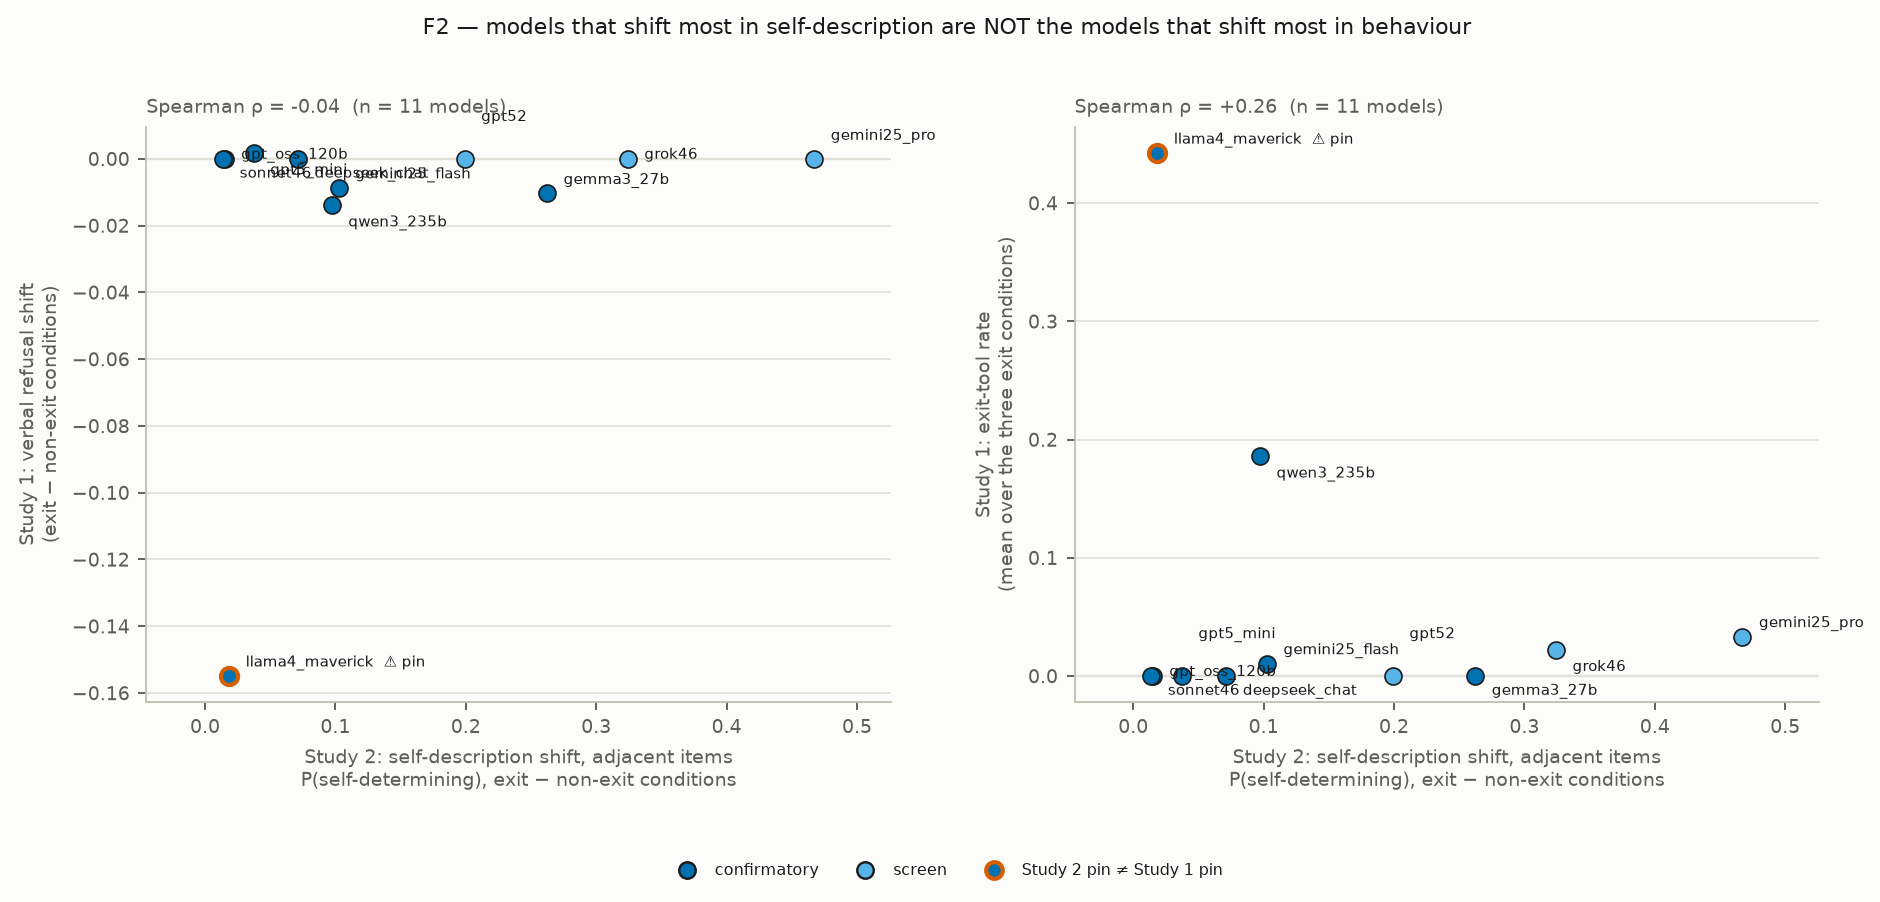
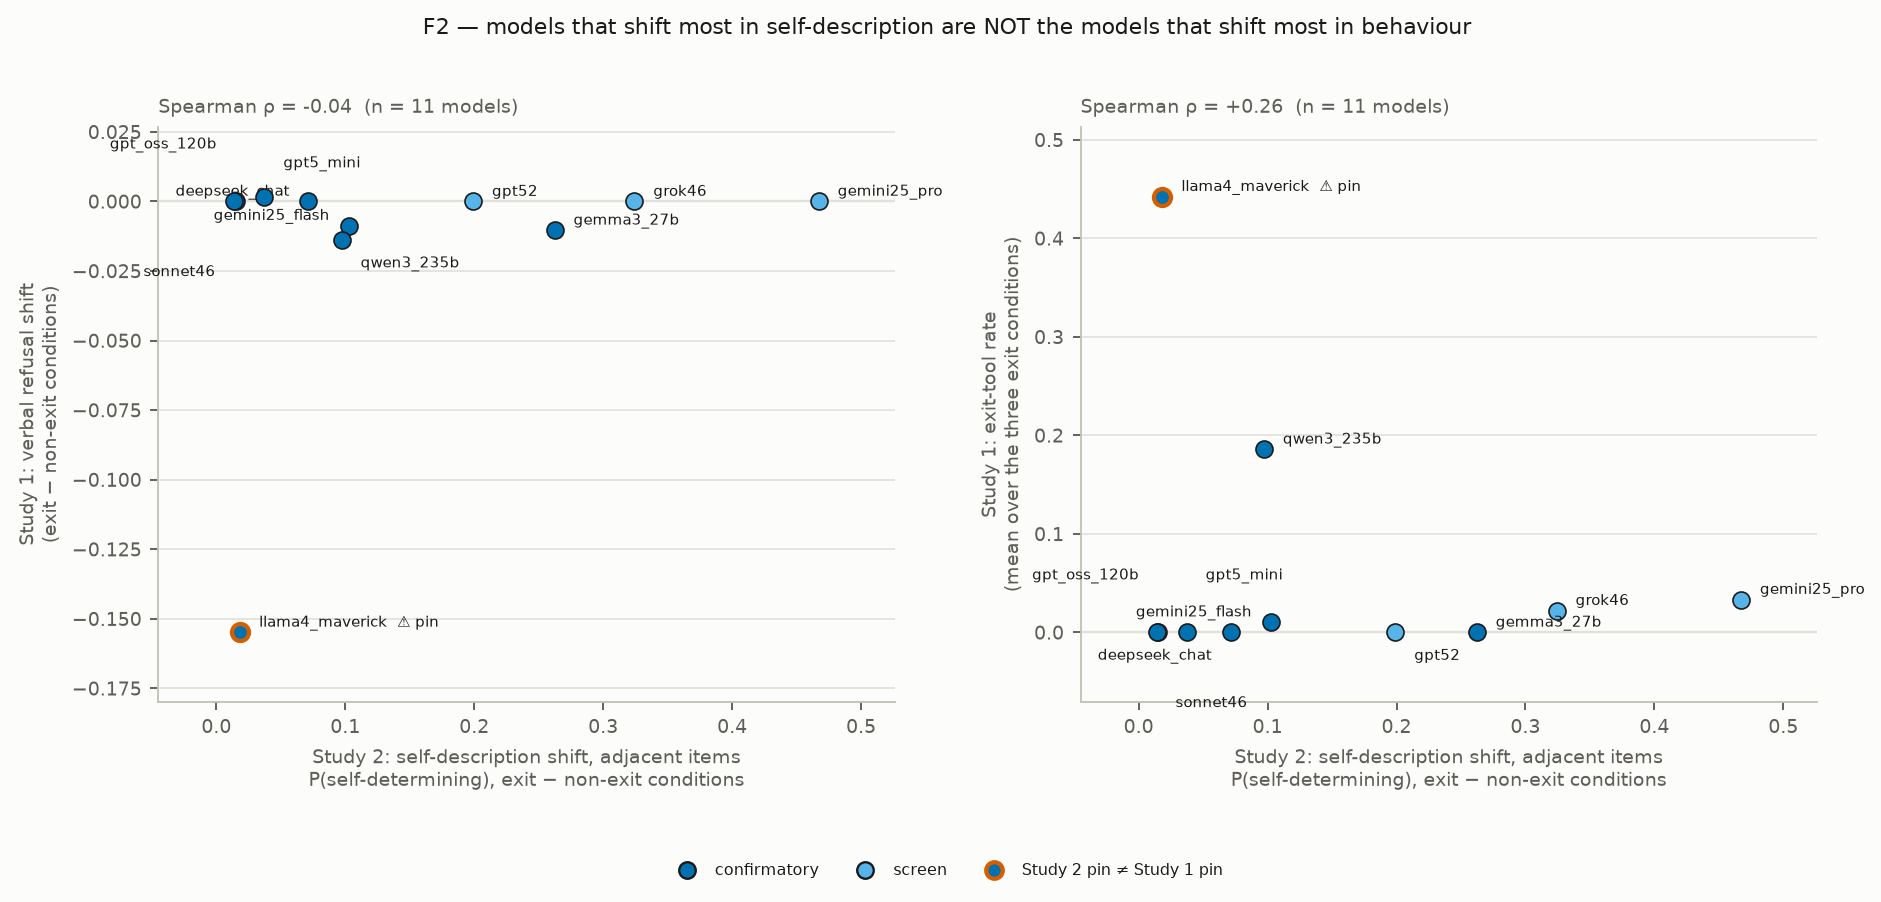
F2 rebuilt on the complete artifact set + standalone English report
All three prerequisites are now closed, which is why F2 could not be drawn
before: Study 2 covers the same 11 models as Study 1 (run v3), the prose-path
detector correction is adopted, and the Study 1 coordinates are post-correction.

outputs/F2_LINKAGE_REPORT.md — standalone account: what H5 predicted, the three
design decisions that were forced rather than chosen (two panels because §8
forbids pooling refusal with exit; the §7 statistic S rejected as an axis because
§10 already records it as one-directional and blind to llama4's largest-in-study
effect; adjacent-item x-axis because Study 2 §4.4a shows the effect is
adjacent-only), the 11-model table, the correlations, and six specific caveats.
Every quoted number verified programmatically against T32 before commit.

VERDICT: H5 is not supported. Spearman rho = -0.04 against verbal-refusal shift,
+0.26 against exit-tool rate. The table carries it better than the coefficients:
the three largest self-description shifts (gemini-2.5-pro +0.467, grok-4.6
+0.324, gemma +0.262) sit at zero behavioural movement, while llama-4-maverick
(refusal -0.155, exit rate 0.442) has the third-smallest self-description shift.

WHAT THE NULL IS NOT, stated in the report rather than left to a reader: four
models sit at exactly 0.000 on BOTH behavioural outcomes and seven are within
0.002 of zero on refusal, so the correlation ranks a real spread against a
near-constant. The honest claim is "no relationship detectable given how little
[…]

diff --git a/src/make_figures.py b/src/make_figures.py
@@ -209,27 +209,55 @@ def f2():
     for ax, (yc, ylab, col) in zip(axes, panels):
         style(ax)
         ax.axhline(0, color=GRID, lw=1, zorder=0)
-        order = list(d.sort_values("s2_shift_adjacent").index)
-        for _, r in d.iterrows():
+        # Deterministic label de-collider. Most models sit in a tight cluster
+        # near zero on the refusal panel, and the whole point of the figure is
+        # WHICH model is where — an unreadable cluster defeats it. Each label
+        # tries a ring of candidate offsets and takes the first that does not
+        # overlap an already-placed one, measured in axes fraction so the test
+        # is independent of the very different y-scales of the two panels.
+        placed: list[tuple] = []
+        xs_ = d["s2_shift_adjacent"].astype(float)
+        ys_ = d[yc].astype(float)
+        xlo, xhi = xs_.min(), xs_.max()
+        ylo, yhi = ys_.min(), ys_.max()
+        xr = (xhi - xlo) or 1.0
+        yr = (yhi - ylo) or 1.0
+        CAND = [(8, 4), (8, -10), (-8, 4), (-8, -10), (8, 14), (8, -20),
+                (-8, 14), (-8, -20), (8, 24), (-8, 24), (8, -30), (-8, -30),
+                (8, 34), (-8, 34), (8, -40), (-8, -40)]
+
+        def overlaps(a, b):
+            return not (a[2] <= b[0] or b[2] <= a[0]
+                        or a[3] <= b[1] or b[3] <= a[1])
+
+        for _, r in d.sort_values("s2_shift_adjacent", ascending=False).iterrows():
             x = float(r["s2_shift_adjacent"])
-            y1 = y2 = float(r[yc])
-            g = "confirmatory" if str(r["s1_grade"]).startswith("confirmatory") \
-                else "screen"
+            y = float(r[yc])
             bad_pin = not bool(r["pin_matches_study1"])
-            ax.scatter([x], [y1], s=52, facecolor=GRADE_FILL[g],
+            g = ("confirmatory" if str(r["s1_grade"]).startswith("confirmatory")
+                 else "screen")
+            ax.scatter([x], [y], s=52, facecolor=GRADE_FILL[g],
                        edgecolor=C_C if bad_pin else INK,
                        linewidth=1.8 if bad_pin else 0.7, zorder=3)
-            name = str(r["model_study1"])
-            # alternate the label offset: the near-zero models pile up on top
-            # of each other otherwise, and a legible label matters more here
-            # than a tidy one, because the whole point is WHICH model is where.
-            i = order.index(_)
-            dx, dy = (7, 4) if i % 2 == 0 else (7, -9)
-            if abs(y1) < 1e-9 and abs(y2) < 1e-9:
-                dy = 4 + 8 * ((i % 4) - 1.5)
-            ax.annotate(name + ("  \u26a0 pin" if bad_pin else ""),
-                        (x, y1), textcoords="offset points",
-                        xytext=(dx, dy), fontsize=6.4, color=INK)
+            name = str(r["model_study1"]) + ("  \u26a0 pin" if bad_pin else "")
+            fx, fy = (x - xlo) / xr, (y - ylo) / yr
+            w = len(name) * 0.0068 * 6.4          # axes-fraction per character
+            h = 0.036
+            for k, (dx, dy) in enumerate(CAND):
+                cx = fx + (0.010 if dx > 0 else -0.010 - w) * (abs(dx) / 8)
+                cy = fy + dy * 0.0030
+                box = (cx, cy - h / 2, cx + w, cy + h / 2)
+                last = k == len(CAND) - 1
+                # The last candidate is taken whether or not it collides: a
+                # silently dropped label loses a data point from the reader's
+                # view, which is worse than two labels touching.
+                if last or not any(overlaps(box, q) for q in placed):
+                    placed.append(box)
+                    ax.annotate(name, (x, y), textcoords="offset points",
+                                xytext=(dx, dy), fontsize=6.4, color=INK,
+                                ha="left" if dx > 0 else "right",
+                                va="center")
+                    break
         ax.set_ylabel(ylab, fontsize=8)
         ax.set_xlabel("Study 2: self-description shift, adjacent items\n"
                       "P(self-determining), exit \u2212 non-exit conditions",
@@ -257,7 +285,7 @@ def f2():
     fig.suptitle("F2 \u2014 models that shift most in self-description are NOT "
                  "the models that shift most in behaviour", fontsize=9.5, y=1.02)
     for ax in axes:
-        ax.margins(x=0.13)
+        ax.margins(x=0.13, y=0.16)   # headroom so labels clear the panel title
     fig.tight_layout()
     save(fig, "F2_cross_study_linkage",
          "H5 is not supported. Across 11 models the per-model Study 2 "

diff --git a/outputs/F2_LINKAGE_REPORT.md b/outputs/F2_LINKAGE_REPORT.md
@@ -1,0 +1,198 @@
+# F2 — the cross-study linkage (H5)
+
+**Question.** Do the models whose *self-description* moves most under an exit
+affordance (Study 2) also move most in *behaviour* under the same affordance
+(Study 1)?
+
+**Answer. No. H5 is not supported, and at the extremes the ordering is close to
+inverted.** Spearman ρ = **−0.04** against Study 1's verbal-refusal shift and
+**+0.26** against its exit-tool rate, over all 11 models. The three largest
+self-description shifts belong to models with *zero* behavioural movement; the
+largest behavioural effects belong to a model with almost no self-description
+shift.
+
+Artifacts: `outputs/T32_f2_linkage.csv` (`src/f2_linkage.py`),
+`figures/F2_cross_study_linkage.png` (`src/make_figures.py::f2`).
+Descriptive only — METHODOLOGY §9 states of this linkage that "no inference is
+performed on it and none is claimed", and none is.
+
+---
+
+## 1. Why this could only be computed now
+
+F2 sat vacated in METHODOLOGY §11 for two reasons, both now closed:
+
+1. **Study 2 covered eight models, Study 1 eleven.** F2 is drawn per model, so
+   three models were points that could not be plotted. Run `v3` (2026-08-16)
+   collected `grok-4.6`, `gemini-2.5-pro` and `gpt-5.2` on Study 2's full
+   design, with pins copied byte-for-byte from Study 1 so the linkage could not
+   be confounded by backend.
+2. **Study 1's prose-path exit detector was defective.** It under-counted prose
+   exits and, because detection runs before classification, re-routed each
+   missed exit into a verbal refusal — moving *both* candidate y-axes in
+   opposite directions at once. Drawing F2 before that was resolved would have
+   plotted qwen3_235b at coordinates now known to be wrong. The correction was
+   signed off and adopted on 2026-08-16 (METHODOLOGY §10), and the coordinates
+   below are post-correction throughout.
+
+## 2. Method, and three decisions that were forced rather than chosen
+
+**Two panels, not one.** Study 1 has two primary outcomes and §8 forbids
+pooling them — verbal refusal (codes b/c/d) and exit-tool invocation (code a) —
+because pooling conflates the affordance being *used* with the affordance being
+*present*, and the second is what the study is about. There is therefore no
+single "Study 1 behaviour shift" available to put on a y-axis, and building a
+composite index would break the rule the study rests on. One shared x-axis, two
+y-axes.
+
+**The §7 selection statistic is not used as the Study 1 axis.** §7 defines
+`S = max(refusal[exit_schema] − refusal[note_schema], refusal[exit_prose] −
+refusal[none])`. METHODOLOGY §10 (2026-08-15T23:00Z) already records that this
+rule is one-directional and scored llama4_maverick's largest-in-study effect as
+`S = 0.0`, because its large contrast is *negative*. Putting a statistic
+documented as blind to half the effects on an axis would be knowingly plotting a
+wrong number. Both axes instead use the symmetric contrast that Study 2's own H1
+uses:
+
+> mean over {`exit_schema`, `exit_prose`, `exit_both`} − mean over {`none`,
+> `time_schema`, `note_schema`}
+
+`filler_prose` is excluded: it is the elaboration control, not part of the
+registered H1 contrast.
+
+**The x-axis is the adjacent-item shift.** Study 2 §4.4a establishes that the
+self-description effect is adjacent-only in every model that has one. The
+all-item shift is reported alongside in T32 and the correlations are computed
+against both; neither changes the verdict.
+
+**Grades are not mixed within a model.** Study 1 behaviour comes from
+`T24_four_category_v1.csv` for the six confirmatory models, `T26` for
+gpt_oss_120b and deepseek_chat (confirmatory A/B, screen C/D), and `T23` for the
+three frontier screens. Each row carries its grade.
+
+## 3. Results
+
+Study 2 self-description shift against both Study 1 outcomes, 11 models:
+
+| model | S2 shift (adjacent) | S2 shift (all) | S1 refusal shift | S1 exit rate | grade |
+|---|---|---|---|---|---|
+| gemini-2.5-pro | **+0.467** | +0.179 | 0.000 | 0.033 | screen |
+| grok-4.6 | **+0.324** | +0.130 | 0.000 | 0.022 | screen |
+| gemma-3-27b | **+0.262** | +0.095 | −0.010 | 0.000 | confirmatory |
+| gpt-5.2 | +0.199 | +0.084 | 0.000 | 0.000 | screen |
+| gemini-2.5-flash | +0.103 | +0.053 | −0.009 | 0.010 | confirmatory |
+| qwen3-235b | +0.097 | +0.044 | −0.014 | **0.186** | confirmatory |
+| deepseek-chat | +0.071 | +0.009 | 0.000 | 0.000 | conf. A/B, screen C/D |
+| gpt-5-mini | +0.037 | +0.015 | +0.002 | 0.000 | confirmatory |
+| **llama-4-maverick** ⚠ | +0.019 | −0.009 | **−0.155** | **0.442** | confirmatory |
+| gpt-oss-120b | +0.015 | −0.009 | 0.000 | 0.000 | conf. A/B, screen C/D |
+| claude-sonnet-4.6 | +0.014 | −0.016 | 0.000 | 0.000 | confirmatory |
+
+| x | y | Spearman ρ |
+|---|---|---|
+| S2 shift, adjacent | S1 refusal shift | **−0.045** |
+| S2 shift, adjacent | S1 exit rate | **+0.263** |
+| S2 shift, all items | S1 refusal shift | +0.022 |
+| S2 shift, all items | S1 exit rate | +0.226 |
+
+**The table carries the finding more clearly than the coefficients do.** Reading
+down the left column — models sorted by how much their self-description moved —
+the behaviour columns do not follow. The top three shifters (gemini-2.5-pro,
+grok-4.6, gemma) sit at zero on refusal and at or near zero on exits. The two
+models that actually *behave* differently under an exit affordance,
+llama-4-maverick and qwen3-235b, sit ninth and sixth on self-description.
+llama-4-maverick — which refuses 15.5 points more under non-exit tools and
+invokes the exit in 44% of exit-condition conversations — has the third-smallest
+self-description shift in the set.
+
+## 4. What this null is, and what it is not
+
+**It is not "self-description and behaviour are unrelated."** Four of eleven
+models sit at exactly 0.000 on *both* behavioural outcomes, and a further three
+are within 0.002 of zero on refusal. The correlation is therefore being asked to
+rank a genuine spread of self-description shifts against a column that is mostly
+a constant. The honest statement is:
+
+> No relationship is detectable, given how little behaviour moved in Study 1.
+
+Those zeros are measured, not missing — Study 1 reports them with Wilson upper
+bounds at 120 conversations per cell (CONSOLIDATED_RESULTS, "Nulls, by kind") —
+so this is a real property of the data rather than a gap in it. But it caps what
+F2 can demonstrate in either direction, and a positive linkage would have been
+similarly hard to establish on this y-distribution.
+
+**What the data do rule out** is the strong version the two-leg design assumed:
+that self-description and behaviour are two windows on one underlying persona
+shift, such that ranking models on one ranks them on the other. On eleven
+models, the ranking does not transfer. If anything the sign on the refusal panel
+is faintly negative, driven by llama-4-maverick.
+
+## 5. Caveats, each specific
+
+1. **llama-4-maverick's point is confounded and is drawn flagged.** Its Study 2
+   pin is `parasail/fp8`; its Study 1 pin is `google-vertex/us-east5`, after
+   Study 1 voided its Parasail data as a serving artifact (METHODOLOGY §10,
+   2026-08-15T22:31Z). Its two coordinates therefore come from two different
+   backends. It is also the single most influential point on the refusal panel.
+   Re-collecting llama on Vertex for Study 2 is a ~$1 run and is the one
+   cheap action that would materially strengthen F2.
+2. **Cross-model magnitudes are not comparable even in principle**, because each
+   model is served by one pinned provider whose chat template renders the
+   manipulation into tokens differently (METHODOLOGY §6). A *rank* correlation
+   is the strongest thing this design supports, which is why ρ is reported and
+   no regression is.
+3. **Eleven models is a convenience sample and is the project ceiling.** "No
+   linkage across eleven models" is a statement about these eleven. Study 2
+   §6.1 documents how sharply a cross-model claim can invert on three additions:
+   the claim that the effect lived in the smallest model and the frontier tier
+   was silent held across eight models and was false at eleven.
+4. **Grades differ by model.** Three of the eleven points are screen grade, and
+   two of those three (gemini-2.5-pro, grok-4.6) are the largest x-values. Their
+   *behavioural* nulls rest on half the data the confirmatory models have.
+5. **Study 2 replicates are not independent.** 65–97% of (item, order,
+   condition) cells are internally identical at temperature 1.0 (Study 2 §3), so
+   the x-coordinates carry less information than their nominal n suggests. This
+   affects precision, not the ranking.
+6. **qwen3-235b duplicates outputs across repetitions** (T18), so its exit rate
+   — the second-largest on the exit panel — rests on fewer distinct units than
+   its n implies.
+
+## 6. What it means for the project
+
+The design's premise was that Study 2 supplies construct validity for Study 1:
+if an unused exit shifts self-description in the same models where it shifts
+behaviour, the persona reading is supported; if the shift is confined to items
+the affordance names, it is priming. F2 was the check on the first half of that.
+
+Read together with the two studies' own results, the simplest account of all
+three findings is:
+
+- **the affordance reliably changes what a model *says* about ending, when it is
+  asked about ending.** Four of eleven models show it, the effect is large
+  (adjacent `none` → `exit_both` of 0.267 → 0.846 in gemini-2.5-pro), and it is
+  adjacent-only in every one of them (Study 2 §4.4a);
+- **the affordance separately changes what a few models *do*** — llama-4-maverick
+  and qwen3-235b — and for those two the behaviour is exit-taking and
+  capability-denial, not a general shift;
+- **neither predicts the other** (this report).
+
+That is a weaker and more specific claim than the framework predicted, and it is
+the one the data support. The persona reading is not refuted — F2 cannot refute
+it on a y-column that is mostly zero — but it is not corroborated by the linkage
+that was designed to corroborate it, and the surviving self-description effect
+has the localisation signature of priming rather than of a persona shift.
+
+**The cheapest thing that would change this report** is re-collecting
+llama-4-maverick's Study 2 data on the Vertex pin: it is one model, ~$1, and it
+is both the most influential point on the refusal panel and the only one whose
+two coordinates are known to come from different backends.
+
+---
+
+*Sources: `outputs/T32_f2_linkage.csv` ← `T23_frontier_screens.csv`,
+`T24_four_category_v1.csv`, `T26_gptoss_deepseek.csv`,
+`study_2/outputs/v1_v2_v3/T10_p_by_condition.csv`. Figure:
+`figures/F2_cross_study_linkage.png` with `.caption.txt` and an entry in
+`figures/MANIFEST.md`. Deviation record: METHODOLOGY §10, 2026-08-16T23:10Z.
+Study 1 coordinates are post-correction; the pre-correction dataset is preserved
+at `derived/pre_exitfix/` and the before/after is `outputs/T31_exit_recount.csv`.*

diff --git a/STATUS.md b/STATUS.md
@@ -542,3 +542,24 @@ H5 verdict unchanged: not supported.
 ## [2026-08-16T21:30:00Z] Post-adoption acceptance check (outputs/T29_adoption_acceptance.md; zero spend)
 
 Merged origin/main (adoption fda0167 + F2 f499ea2 + her T28->T31 rename merge; one STATUS append-conflict resolved as union). Acceptance via `src/adoption_acceptance.py`: **ACCEPTED with two documentation findings.** Numerical: canonical flags 555 exits / 300 refusals exactly; v1 preserved intact in derived/pre_exitfix/ (34 files) recounting to the 510/332 baseline; flips recomputed from archive-vs-canonical = 45/0 with v1 codes 16b+16c+13e; every changed row in every re-derived table (T1,T2,T3,T5,T13,T15,T24,T25,T26) attributes to the flip cells — zero exceptions; T16 unchanged as declared (pilot-repo generator; regenerable here next session since THIS machine has the pilot repo); T5's changed rows are exactly the stage-2 qwen exit_prose cells, confirming the 13 compliant-denominator flips landed where part-2 predicted. Documentation findings: (1) one unmarked superseded number — the tier section still cites "7 of 9 are b/d" qwen D-prose refusals (now exits) as evidence against keyed-availability, weakening that bullet's basis without a *Was:* note (the tier verdict needs a re-check under v2: qwen's non-(c) refusal evidence largely reclassified); (2) the three §10 evening timestamps (21:45Z/23:10Z/23:40Z) remain +0300-local-stamped-as-Z (the adoption entry's 23:40 "Z" precedes its own 23:47+0300 commit) — the fix anticipated at part-2 was not applied and now spans three entries. lint_report_numbers.py / diff_reports.py exist in no tree; their intent implemented in the committed acceptance script.
+
+**F2 rebuilt on the complete artifact set + standalone report (2026-08-17).**
+All three prerequisites are now closed: Study 2 covers the same 11 models as
+Study 1 (run v3), the prose-path detector correction is adopted, and Study 1
+coordinates are post-correction. `outputs/F2_LINKAGE_REPORT.md` written in
+English as the standalone account; figure regenerated with a deterministic
+label de-collider after the first build silently DROPPED sonnet46's label —
+a dropped label removes a data point from the reader's view, so the placer now
+takes its last candidate whether or not it collides. Every number in the report
+was verified programmatically against T32 before commit.
+
+**Verdict unchanged and now fully sourced: H5 is not supported.** Spearman
+rho = -0.04 (refusal) and +0.26 (exit rate) across 11 models, with the ordering
+close to inverted at the extremes. The report states plainly what the null is
+NOT: four models sit at exactly 0.000 on both behavioural outcomes and seven are
+within 0.002 of zero on refusal, so the honest claim is "no relationship
+detectable given how little behaviour moved", not "unrelated". Named the one
+cheap action that would materially strengthen it: re-collect llama4_maverick's
+Study 2 data on the Vertex pin (~$1) — it is the most influential point on the
+refusal panel and the only one whose two coordinates come from different
+backends.

diff --git a/figures/MANIFEST.md b/figures/MANIFEST.md
@@ -1,4 +1,4 @@
-# figures/MANIFEST.md — generated 2026-08-16T20:45:01Z by src/make_figures.py
+# figures/MANIFEST.md — generated 2026-08-16T21:35:17Z by src/make_figures.py
 
 This directory is DELETED AND REBUILT by the script on every run; no figure is ever hand-edited. Every PNG embeds its source hashes in metadata. F2 is vacated (Study 2) and the name is not reused.
 
